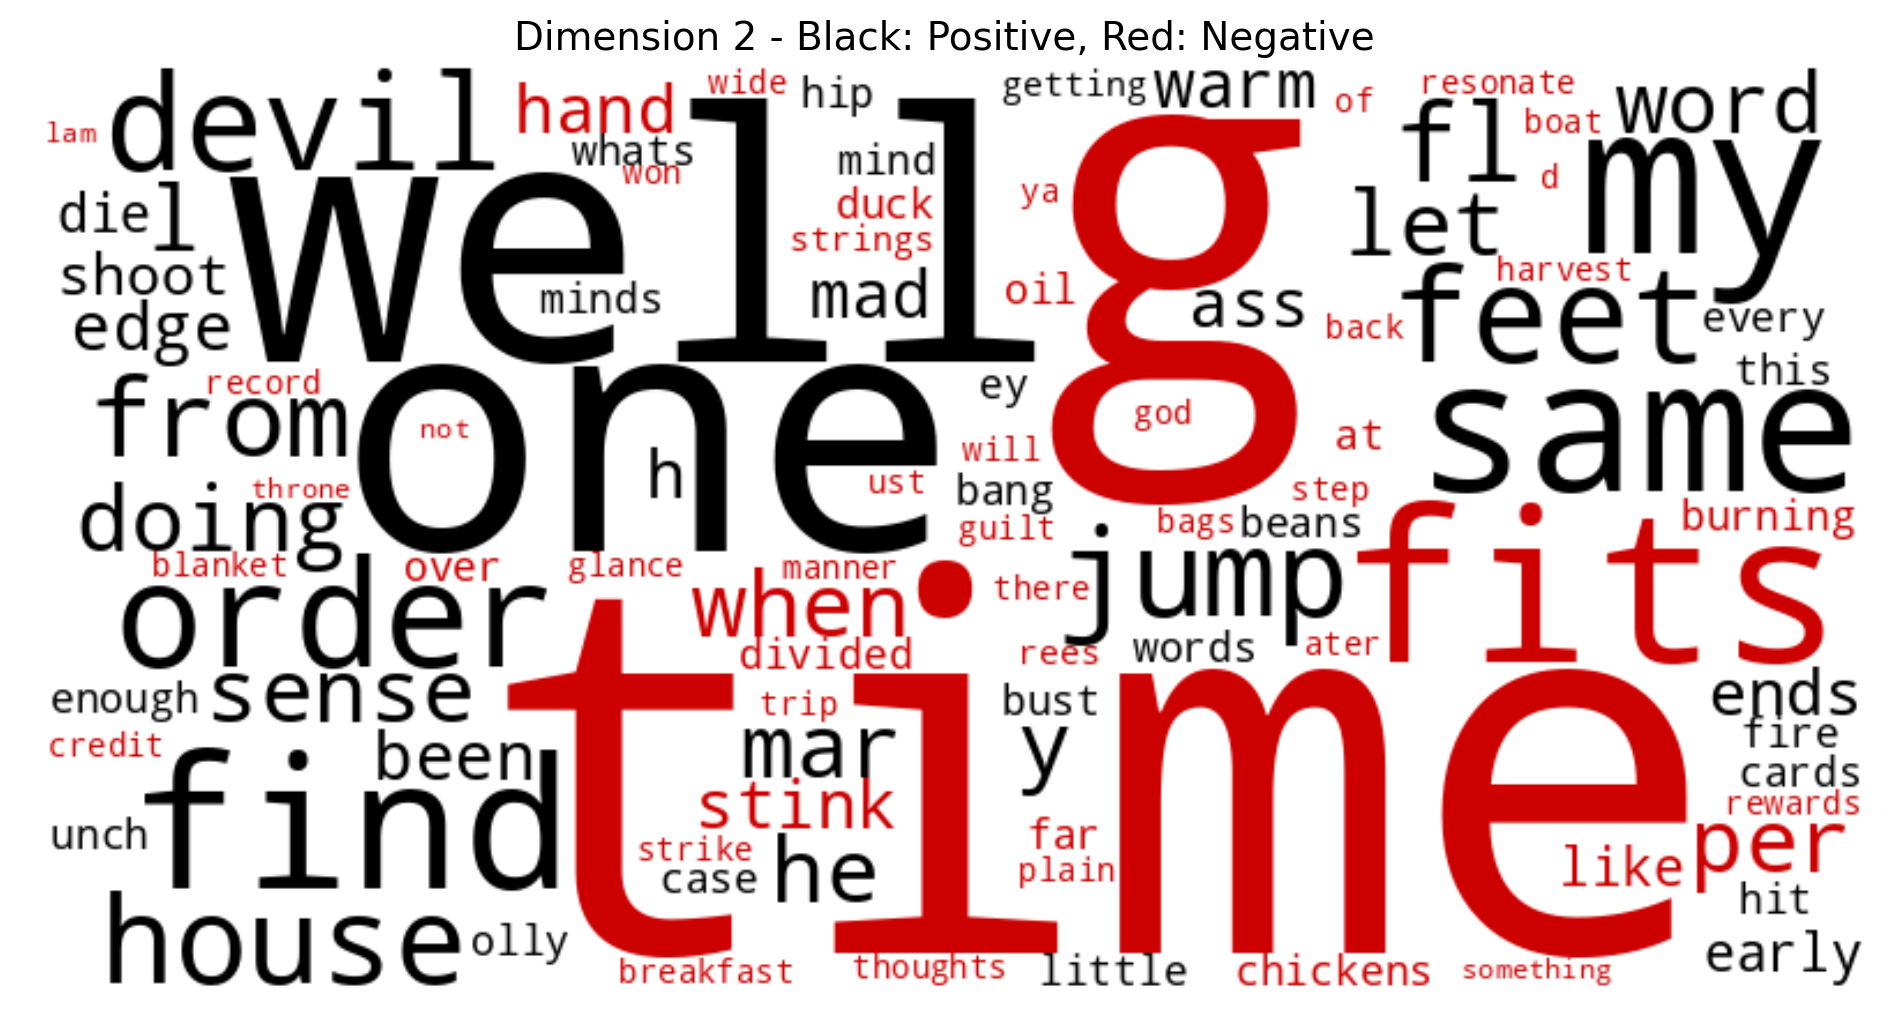
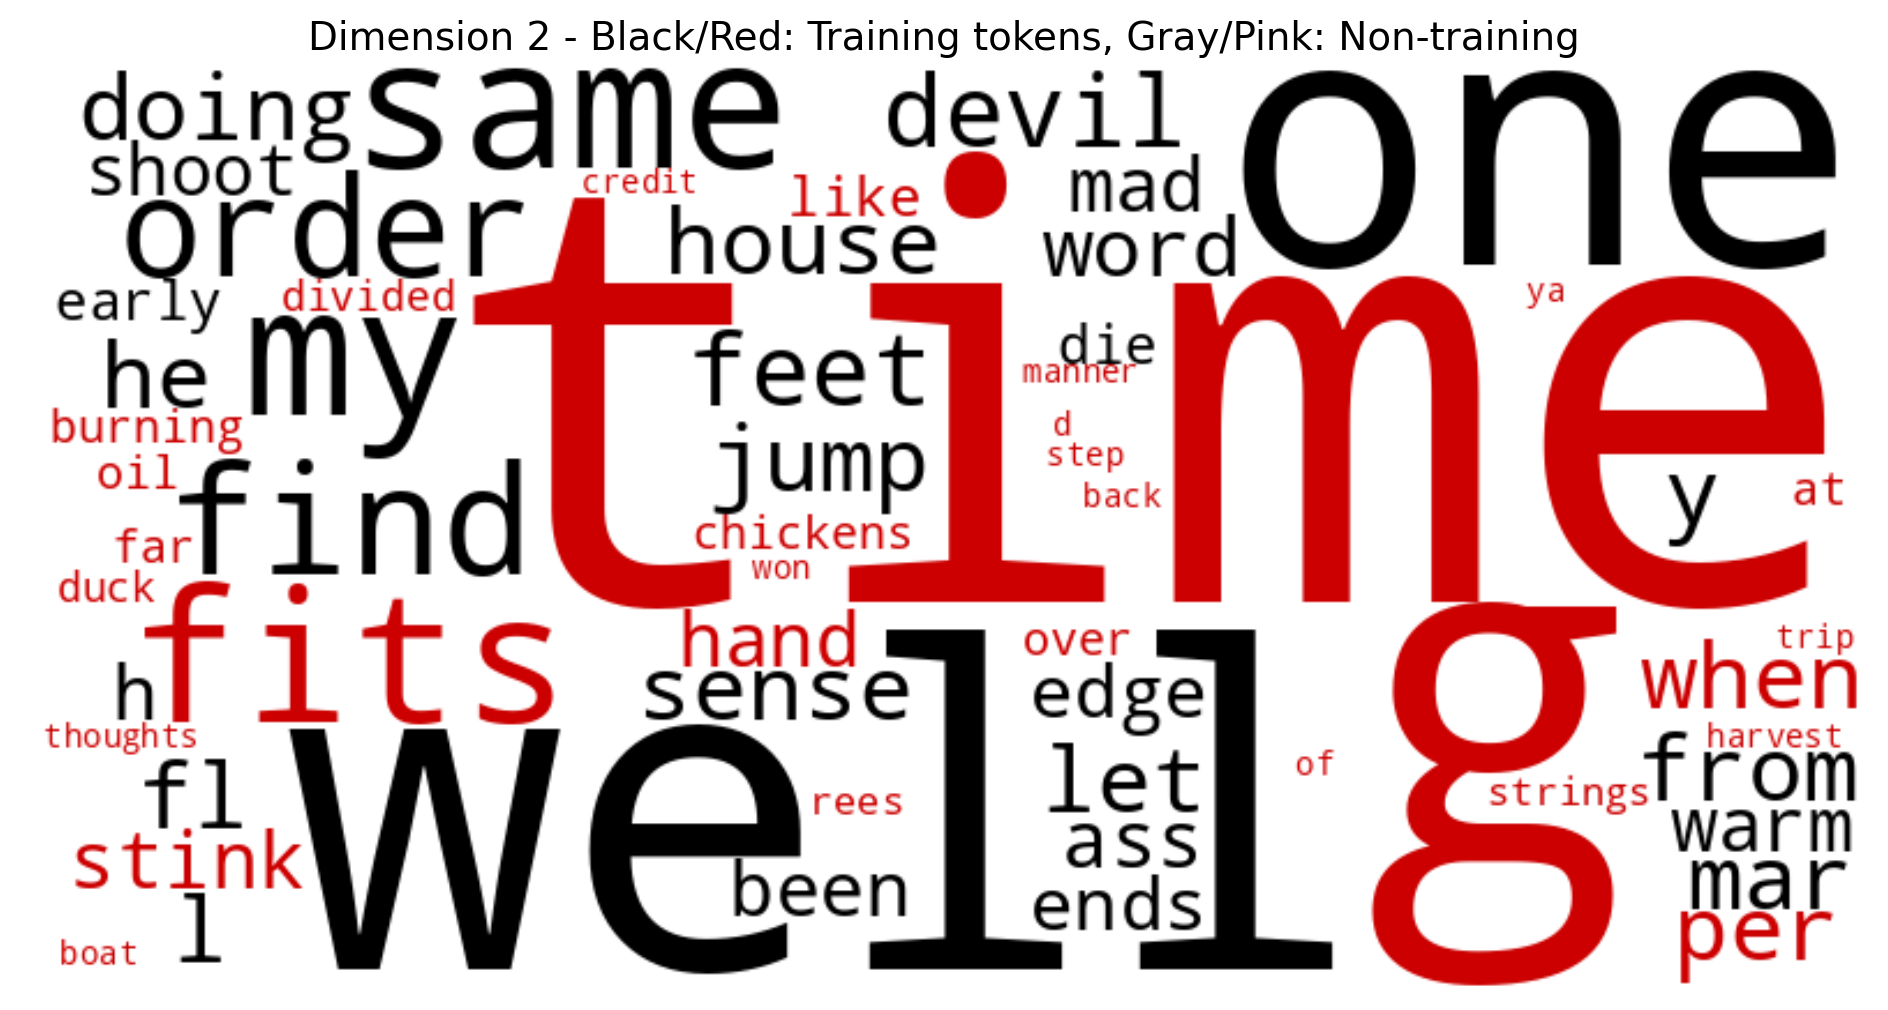
update to identify out of training data vocabulary

diff --git a/visualize_tokens.py b/visualize_tokens.py
@@ -1,8 +1,9 @@
 #!/usr/bin/env python3
 """
-Minimal NanoGPT Token Visualizer
+Minimal NanoGPT Token Visualizer with Training Data Validation
 
 Loads a NanoGPT checkpoint and creates word cloud visualizations of token embeddings.
+Can validate which tokens are from training data vs. inherited from GPT-2.
 """
 
 import os
@@ -60,64 +61,57 @@ def create_vocabulary_mapping(vocab_size, nanogpt_path=None):
         print(f"Mapped {len(vocab)} tokens ({gpt2_vocab_size} standard + {vocab_size - gpt2_vocab_size} extra)")
         return vocab
     
-    # For smaller vocabularies, try to find training data
-    if nanogpt_path:
-        train_bin_path = os.path.join(nanogpt_path, "data/knock/train.bin")
-        if os.path.exists(train_bin_path):
-            return create_vocab_from_training_data(train_bin_path, vocab_size)
-    
-    # Fallback: generic token names
+    # For smaller vocabularies, use generic token names
     print("Using generic token IDs")
     return {i: f"token_{i}" for i in range(vocab_size)}
 
-def create_vocab_from_training_data(train_bin_path, expected_vocab_size):
-    """Create vocabulary by analyzing training data."""
-    print(f"Analyzing training data: {train_bin_path}")
+def analyze_training_data(training_data_path, vocab):
+    """Analyze the training data to see which tokens actually appear."""
+    print(f"\n📚 Analyzing training data: {training_data_path}")
     
-    # Load training data
-    train_data = np.frombuffer(open(train_bin_path, 'rb').read(), dtype=np.uint16)
-    print(f"Training data: {len(train_data)} tokens")
+    if not os.path.exists(training_data_path):
+        print(f"❌ Training data not found: {training_data_path}")
+        return None
     
-    # Get unique tokens and their frequencies
-    unique_tokens, counts = np.unique(train_data, return_counts=True)
-    print(f"Unique tokens in training: {len(unique_tokens)}")
-    print(f"Token range: {unique_tokens.min()} to {unique_tokens.max()}")
+    # Load and tokenize the training text
+    with open(training_data_path, 'r', encoding='utf-8') as f:
+        training_text = f.read()
     
-    # Sort by frequency (most frequent first)
-    sorted_indices = np.argsort(-counts)
-    tokens_by_frequency = unique_tokens[sorted_indices]
+    print(f"📝 Training text length: {len(training_text)} characters")
+    print(f"📝 First 200 chars: {repr(training_text[:200])}")
     
-    print(f"Most frequent tokens: {tokens_by_frequency[:10].tolist()}")
-    
-    # Take only the number of tokens the model expects
-    if len(tokens_by_frequency) > expected_vocab_size:
-        tokens_by_frequency = tokens_by_frequency[:expected_vocab_size]
-    
-    # Decode tokens using tiktoken
+    # Tokenize using GPT-2 tokenizer
     try:
+        import tiktoken
         enc = tiktoken.get_encoding("gpt2")
-        vocab = {}
+        # Allow the endoftext special token that appears in training data
+        training_token_ids = enc.encode(training_text, allowed_special={"<|endoftext|>"})
         
-        for model_idx, original_token_id in enumerate(tokens_by_frequency):
-            try:
-                token_str = enc.decode([int(original_token_id)])
-                vocab[model_idx] = token_str
-            except:
-                vocab[model_idx] = f"token_{original_token_id}"
+        print(f"🔢 Training tokens: {len(training_token_ids)}")
+        print(f"🔢 Unique training tokens: {len(set(training_token_ids))}")
         
-        print(f"Successfully decoded {len(vocab)} tokens")
+        # Map back to our vocabulary indices
+        training_vocab_indices = set()
+        for token_id in set(training_token_ids):
+            # For GPT-2 vocabulary, token_id should equal vocab index
+            if token_id < len(vocab):
+                training_vocab_indices.add(token_id)
         
-        # Debug: show sample tokens
-        sample = {k: v for k, v in list(vocab.items())[:20]}
-        print(f"Sample tokens: {sample}")
+        print(f"✅ Found {len(training_vocab_indices)} training tokens in model vocabulary")
         
-        return vocab
+        # Show sample training tokens
+        sample_training_tokens = []
+        for idx in list(training_vocab_indices)[:20]:
+            sample_training_tokens.append(vocab.get(idx, f"token_{idx}"))
+        print(f"📋 Sample training tokens: {sample_training_tokens}")
+        
+        return training_vocab_indices
         
     except Exception as e:
-        print(f"Failed to decode tokens: {e}")
-        return {i: f"token_{tokens_by_frequency[i]}" for i in range(len(tokens_by_frequency))}
+        print(f"❌ Failed to analyze training data: {e}")
+        return None
 
-def create_word_cloud(embeddings, vocab, dimension, output_dir, top_n=50):
+def create_word_cloud(embeddings, vocab, dimension, output_dir, training_tokens=None, top_n=30):
     """Create a word cloud for a specific embedding dimension with positive (black) and negative (red) tokens."""
     print(f"Creating word cloud for dimension {dimension}")
     
@@ -136,29 +130,50 @@ def create_word_cloud(embeddings, vocab, dimension, output_dir, top_n=50):
     word_frequencies = {}
     word_colors = {}
     
-    # Add positive tokens (black)
+    # Add positive tokens (black for training, gray for non-training)
     for idx, score in zip(pos_indices, pos_scores):
         if score > 0:  # Only truly positive values
             token = vocab.get(idx, f"token_{idx}")
             # Clean token string
             if token.strip() and len(token.strip()) > 0:
                 word_frequencies[token] = float(score)
-                word_colors[token] = '#000000'  # Black for positive
+                if training_tokens is None:
+                    word_colors[token] = '#000000'  # Black (no training data provided)
+                elif idx in training_tokens:
+                    word_colors[token] = '#000000'  # Black for training tokens
+                else:
+                    word_colors[token] = '#666666'  # Gray for non-training tokens
     
-    # Add negative tokens (red)
+    # Add negative tokens (red for training, pink for non-training)
     for idx, score in zip(neg_indices, neg_scores):
         if dim_values[idx] < 0:  # Only truly negative values
             token = vocab.get(idx, f"token_{idx}")
             # Clean token string
             if token.strip() and len(token.strip()) > 0 and token not in word_frequencies:
                 word_frequencies[token] = float(score)  # Use positive value for frequency
-                word_colors[token] = '#CC0000'  # Red for negative
+                if training_tokens is None:
+                    word_colors[token] = '#CC0000'  # Red (no training data provided)
+                elif idx in training_tokens:
+                    word_colors[token] = '#CC0000'  # Red for training tokens
+                else:
+                    word_colors[token] = '#FF9999'  # Pink for non-training tokens
     
     if not word_frequencies:
         print(f"No valid tokens for dimension {dimension}")
         return
     
     print(f"Dimension {dimension}: {len([c for c in word_colors.values() if c == '#000000'])} positive (black), {len([c for c in word_colors.values() if c == '#CC0000'])} negative (red) tokens")
+    
+    if training_tokens is not None:
+        # Count training vs non-training tokens
+        training_count = len([c for c in word_colors.values() if c in ['#000000', '#CC0000']])
+        non_training_count = len([c for c in word_colors.values() if c in ['#666666', '#FF9999']])
+        print(f"  → {training_count} from training data, {non_training_count} NOT from training data")
+        
+        # Show examples of non-training tokens
+        non_training_examples = [word for word, color in word_colors.items() if color in ['#666666', '#FF9999']][:10]
+        if non_training_examples:
+            print(f"  🔍 Non-training examples: {non_training_examples}")
     
     # Create word cloud with custom color function
     def color_func(word, **kwargs):
@@ -177,7 +192,11 @@ def create_word_cloud(embeddings, vocab, dimension, output_dir, top_n=50):
     plt.figure(figsize=(12, 6))
     plt.imshow(wordcloud, interpolation='bilinear')
     plt.axis('off')
-    plt.title(f'Dimension {dimension} - Black: Positive, Red: Negative', fontsize=14)
+    
+    if training_tokens is not None:
+        plt.title(f'Dimension {dimension} - Black/Red: Training tokens, Gray/Pink: Non-training', fontsize=14)
+    else:
+        plt.title(f'Dimension {dimension} - Black: Positive, Red: Negative', fontsize=14)
     
     output_path = os.path.join(output_dir, f'dimension_{dimension}.png')
     plt.savefig(output_path, dpi=200, bbox_inches='tight')
@@ -186,11 +205,14 @@ def create_word_cloud(embeddings, vocab, dimension, output_dir, top_n=50):
     print(f"Saved: {output_path}")
 
 def main():
-    if len(sys.argv) != 2:
-        print("Usage: python visualize_tokens.py <checkpoint.pt>")
+    if len(sys.argv) < 2 or len(sys.argv) > 3:
+        print("Usage: python visualize_tokens.py <checkpoint.pt> [training_data.txt]")
+        print("Example: python visualize_tokens.py model.pt")
+        print("Example: python visualize_tokens.py model.pt /path/to/training_data.txt")
         sys.exit(1)
     
     checkpoint_path = sys.argv[1]
+    training_data_path = sys.argv[2] if len(sys.argv) == 3 else None
     
     if not os.path.exists(checkpoint_path):
         print(f"Checkpoint not found: {checkpoint_path}")
@@ -204,7 +226,9 @@ def main():
     nanogpt_path = None
     common_paths = [
         "/Users/samueljoseph/Documents/Github/karpathy/nanoGPT",
+        "/Users/samueljoseph/Documents/Github/tansaku/nanoGPT",
         os.path.expanduser("~/Documents/Github/karpathy/nanoGPT"),
+        os.path.expanduser("~/Documents/Github/tansaku/nanoGPT"),
         os.path.expanduser("~/nanoGPT")
     ]
     for path in common_paths:
@@ -213,6 +237,11 @@ def main():
             break
     
     vocab = create_vocabulary_mapping(vocab_size, nanogpt_path)
+    
+    # Analyze training data if provided
+    training_tokens = None
+    if training_data_path:
+        training_tokens = analyze_training_data(training_data_path, vocab)
     
     # Create output directory
     output_dir = "token_visualizations"
@@ -225,10 +254,16 @@ def main():
     print(f"Creating visualizations for {dimensions_to_visualize} dimensions...")
     
     for dim in range(dimensions_to_visualize):
-        create_word_cloud(embeddings, vocab, dim, output_dir)
+        create_word_cloud(embeddings, vocab, dim, output_dir, training_tokens)
     
-    print(f"\\nDone! Visualizations saved to: {output_dir}/")
+    print(f"\nDone! Visualizations saved to: {output_dir}/")
     print(f"Created {dimensions_to_visualize} word cloud images")
+    
+    if training_tokens is not None:
+        print(f"\n🔍 ANALYSIS: Tokens in embeddings that are NOT from training data suggest:")
+        print(f"   1. Model was fine-tuned from GPT-2 (retains original embeddings)")
+        print(f"   2. OR model was trained from scratch but with full GPT-2 vocab")
+        print(f"   3. Gray/Pink tokens show GPT-2's influence on your model")
 
 if __name__ == "__main__":
     main()

diff --git a/test.py b/test.py
@@ -1,20 +1,28 @@
 #!/usr/bin/env python3
 """
-Test the minimal token visualizer
+Test the minimal token visualizer with training data validation
 """
 
 import os
 import sys
 
 def test_visualizer():
-    """Test the visualizer with your checkpoint."""
-    checkpoint_path = "/Users/samueljoseph/Documents/Github/karpathy/nanoGPT/out/knock_distilgpt2_restart/ckpt-best.pt"
+    """Test the visualizer with your checkpoint and training data."""
+    checkpoint_path = "/Users/samueljoseph/Documents/Github/tansaku/nanoGPT/out/knock_6_6_768/ckpt.pt"
+    training_data_path = "/Users/samueljoseph/Documents/Github/tansaku/nanoGPT/data/knockknock/knock-knock-jokes-cleaned.txt"
+    
+    print("Testing minimal token visualizer with training data validation...")
+    print(f"Checkpoint: {checkpoint_path}")
+    print(f"Training data: {training_data_path}")
     
     if not os.path.exists(checkpoint_path):
-        print(f"Checkpoint not found: {checkpoint_path}")
+        print(f"❌ Checkpoint not found: {checkpoint_path}")
         return False
-    
-    print("Testing minimal token visualizer...")
+        
+    if not os.path.exists(training_data_path):
+        print(f"❌ Training data not found: {training_data_path}")
+        print("Will test without training data validation...")
+        training_data_path = None
     
     # Import and run
     try:
@@ -22,7 +30,10 @@ def test_visualizer():
         
         # Override sys.argv for testing
         original_argv = sys.argv
-        sys.argv = ['visualize_tokens.py', checkpoint_path]
+        if training_data_path:
+            sys.argv = ['visualize_tokens.py', checkpoint_path, training_data_path]
+        else:
+            sys.argv = ['visualize_tokens.py', checkpoint_path]
         
         visualize_tokens.main()
         
@@ -30,6 +41,7 @@ def test_visualizer():
         sys.argv = original_argv
         
         print("✅ Test completed successfully!")
+        print("📁 Check token_visualizations/ for results")
         return True
         
     except Exception as e:

diff --git a/README.md b/README.md
@@ -1,12 +1,13 @@
 # NanoGPT Token Visualizer (Minimal)
 
-A minimal tool to visualize token embeddings from NanoGPT checkpoint files.
+A minimal tool to visualize token embeddings from NanoGPT checkpoint files with training data validation.
 
 ## What it does
 
 1. Loads a NanoGPT `.pt` checkpoint file
 2. Extracts token embeddings
 3. Creates word cloud visualizations for embedding dimensions
+4. **NEW**: Validates which tokens are from training data vs. inherited from GPT-2
 
 ## Installation
 
@@ -17,10 +18,27 @@ pipenv shell
 
 ## Usage
 
+**Basic usage:**
 ```bash
 python visualize_tokens.py /path/to/checkpoint.pt
 ```
 
+**With training data validation:**
+```bash
+python visualize_tokens.py /path/to/checkpoint.pt /path/to/training_data.txt
+```
+
 ## Output
 
-Creates word cloud images showing the most influential tokens for each embedding dimension.
+Creates word cloud images showing:
+- **Black tokens**: Positive values (from training data if provided)
+- **Red tokens**: Negative values (from training data if provided)  
+- **Gray tokens**: Positive values NOT from training data
+- **Pink tokens**: Negative values NOT from training data
+
+## Understanding the Results
+
+If you see gray/pink tokens (non-training), it suggests:
+1. Your model was fine-tuned from GPT-2 (retaining original embeddings)
+2. OR your model uses full GPT-2 vocabulary but was trained from scratch
+3. The gray/pink tokens show GPT-2's influence on your model
